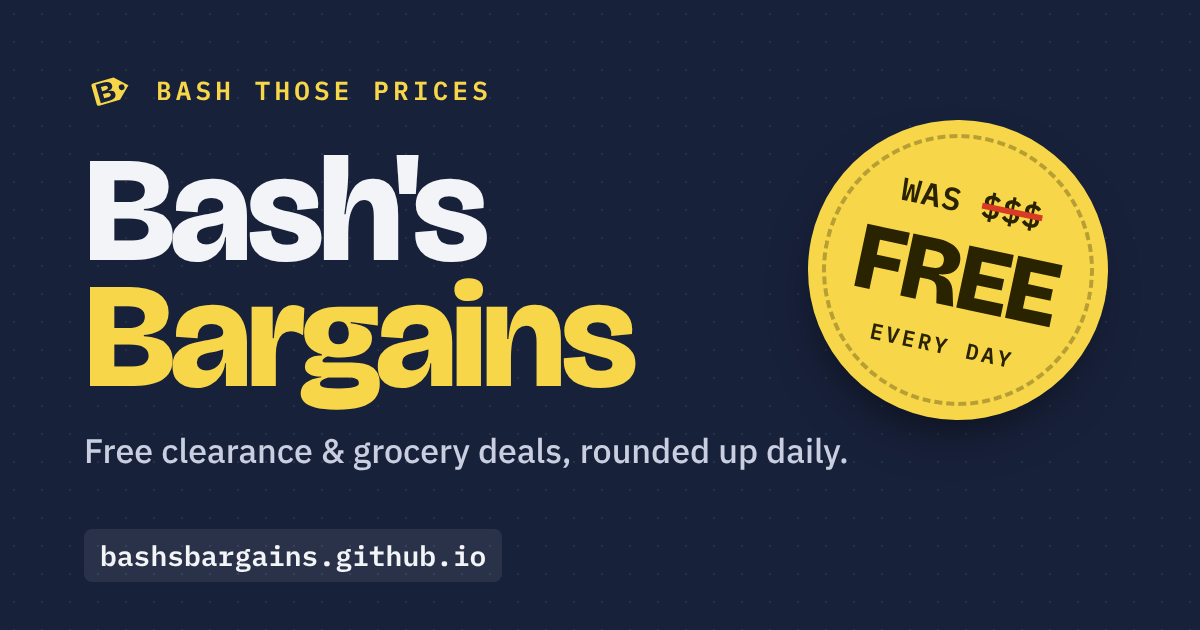
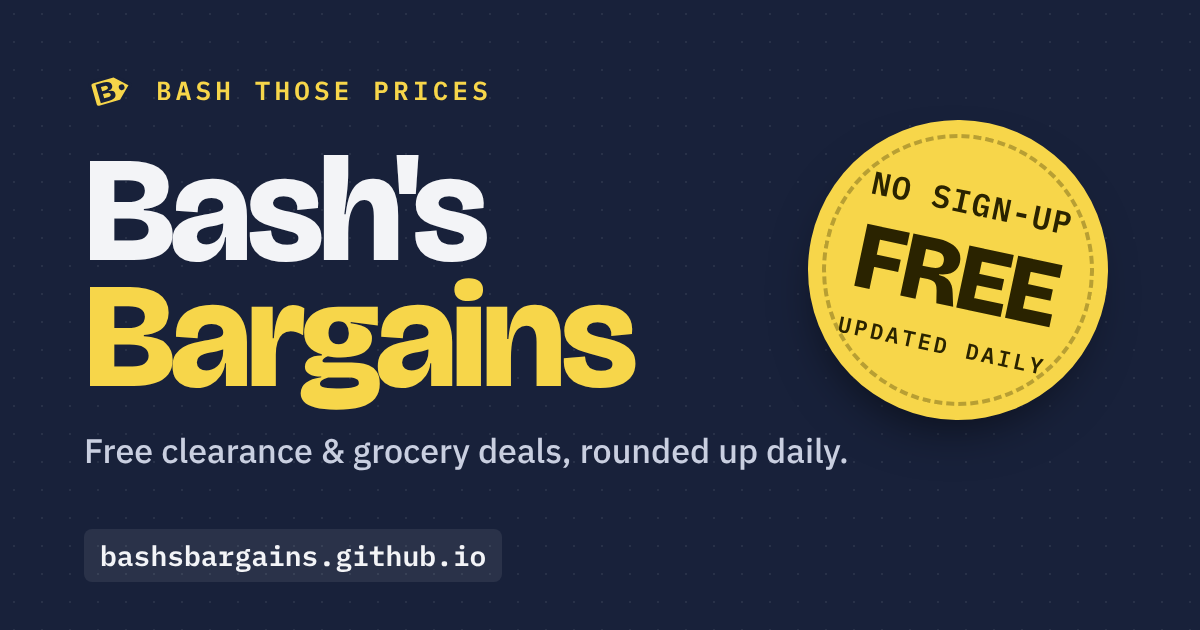
Live deal-count sticker on homepage; clearer share image sticker
Claude-Session: https://claude.ai/code/session_01QheaAekfoZPGyWASFrohCd

diff --git a/index.html b/index.html
@@ -20,7 +20,7 @@
 <meta name="twitter:card" content="summary_large_image">
 <link rel="stylesheet" href="https://fonts.googleapis.com/css2?family=Bricolage+Grotesque:opsz,wght@12..96,600;12..96,800&family=IBM+Plex+Sans:wght@400;500;600&family=IBM+Plex+Mono:wght@500;600&display=swap">
 <style>
-/* Layout: big sticker-slapped hero, then a hang tag (clearance) and a clipped coupon (grocery) side by side on wide screens, then a till receipt of what's free */
+/* Layout: big sticker-slapped hero, then a hang tag (clearance) and a clipped coupon (grocery) side by side on wide screens, then a till receipt of what's included */
 :root{
   --bg:#f3f4f7; --card:#ffffff; --ink:#18213a; --muted:#5d6680; --line:#dde1ea;
   --tag:#f7d64a; --tag-ink:#2a2300; --accent:#2848c9; --hot:#d93a25; --receipt:#fbfbf8; --panel:#18213a; --panel-ink:#f3f4f7;
@@ -58,7 +58,9 @@ h1{font-family:var(--display);font-weight:800;font-size:clamp(3.3rem,15vw,6.6rem
 .sticker{position:absolute;right:4px;top:6px;width:clamp(116px,30vw,168px);aspect-ratio:1;max-width:100%;border-radius:50%;background:var(--tag);color:var(--tag-ink);display:flex;flex-direction:column;align-items:center;justify-content:center;transform:rotate(12deg);box-shadow:0 2px 0 rgba(0,0,0,.08),0 10px 24px -12px rgba(24,33,58,.45);text-align:center;font-family:var(--mono);font-weight:600;line-height:1.05}
 .sticker::before{content:"";position:absolute;inset:7px;border:2px dashed currentColor;border-radius:50%;opacity:.35}
 .sticker .was{font-size:clamp(.72rem,2.6vw,.9rem);letter-spacing:.04em}
-.sticker .was s{text-decoration-color:var(--hot);text-decoration-thickness:3px}
+.sticker{text-decoration:none}
+.sticker .was{text-transform:uppercase;letter-spacing:.12em}
+.sticker .now{font-variant-numeric:tabular-nums}
 .sticker .now{font-family:var(--display);font-weight:800;font-size:clamp(1.9rem,8vw,2.9rem);letter-spacing:-.02em;margin-top:2px}
 .sticker .tiny{font-size:clamp(.6rem,2.1vw,.72rem);letter-spacing:.12em;text-transform:uppercase;margin-top:4px}
 @media (prefers-reduced-motion:no-preference){
@@ -137,11 +139,11 @@ h1{font-family:var(--display);font-weight:800;font-size:clamp(3.3rem,15vw,6.6rem
   <header class="hero">
     <p class="eyebrow">Bash those prices</p>
     <h1>Bash's Bargains</h1>
-    <div class="sticker" aria-label="Was expensive, now free">
-      <span class="was">WAS <s>$$$</s></span>
-      <span class="now">FREE</span>
-      <span class="tiny">every day</span>
-    </div>
+    <a class="sticker" id="sticker" href="/deals/" aria-label="Free deals, updated daily">
+      <span class="was" id="stTop">Free</span>
+      <span class="now" id="stNum">Deals</span>
+      <span class="tiny" id="stBot">updated daily</span>
+    </a>
     <p class="lede">Clearance finds and price drops from the big stores, plus this week's <b>Delaware-area grocery deals</b>, rounded up for you every day. No sign-up. No paywall.</p>
   </header>
 
@@ -215,6 +217,8 @@ fetch("/deals/deals.json",{cache:"no-store"}).then(r=>r.ok?r.json():null).then(j
   const now=Date.now(),cut=now-48*3600*1000;
   const fresh=j.deals.filter(d=>(d.at||0)>=cut&&!(d.expires&&d.expires<=now));
   document.getElementById("dealN").textContent=fresh.length;
+  if(fresh.length){document.getElementById("stTop").textContent="Today's";document.getElementById("stNum").textContent=fresh.length;
+    document.getElementById("stBot").textContent="free deals";document.getElementById("sticker").setAttribute("aria-label",fresh.length+" free deals today. See them")}
   document.getElementById("dealSub").textContent="fresh deals"+(j.updated?" · updated "+ago(j.updated):"");
 }).catch(()=>{});
 fetch("/grocery/grocery.json",{cache:"no-store"}).then(r=>r.ok?r.json():null).then(j=>{
